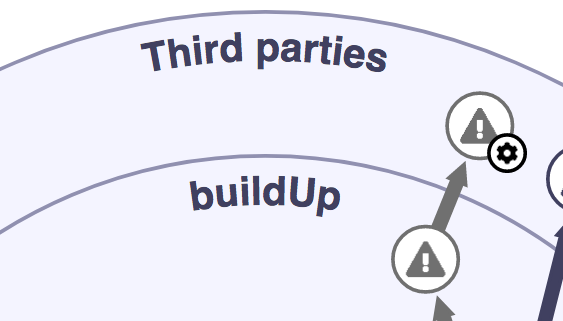
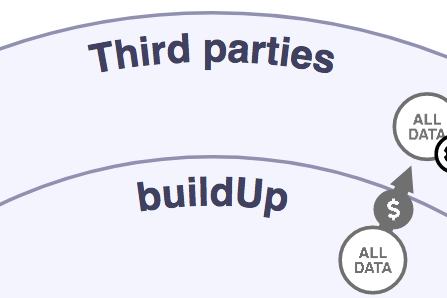
Updated tutorial to account for recent changes.

Changed region(s): [[0.0, 0.2718, 1.0, 1.0], [0.0, 0.0302, 0.7562, 0.2416], [0.3199, 0.0302, 1.0, 0.2718]]

diff --git a/tutorial.html b/tutorial.html
@@ -30,15 +30,15 @@
 
 <img src="images/tutorial/4.png" width="300px"></img>
 
-<p>Some data can be <strong>traced back to your identity</strong>. For example, buildUp might store your location with your name. These circles are colored dark blue. Other data is <strong>anonymous</strong> or otherwise not linked to your identity, and these circles are gray.</p>
+<p>Some data can be <strong>traced back to your identity</strong>. For example, buildUp might store your location with your name. These circles are colored dark blue. Other data is <strong>anonymous</strong> or otherwise not linked to your identity, and these circles are light gray.</p>
 
 <img src="images/tutorial/5.png" width="200"></img>
 
-<p>Sometimes, buildUp describes what it can do with <strong>all of your data that it collects</strong>. This is represented by circles with a white background and a warning sign.</p>
+<p>Sometimes, buildUp describes what it can do with <strong>all of your data that it collects</strong>. This is represented by circles with a white background that say "ALL DATA."</p>
 
 <img src="images/tutorial/6.png" width="200"></img>
 
-<p>You have control over some of the data buildUp collects. This control is shown by a <strong>small gear icon</strong> on the circles representing data you can control </p>
+<p>You have control over some of the data buildUp collects. This control is shown by a <strong>small gear icon</strong> on the circles representing data you can control.</p>
 
 <img src="images/tutorial/7.png" width="100"></img>
 
